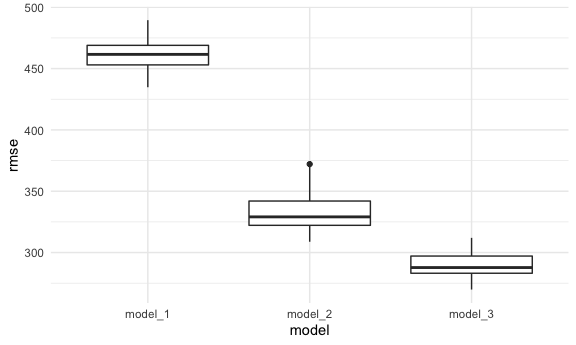
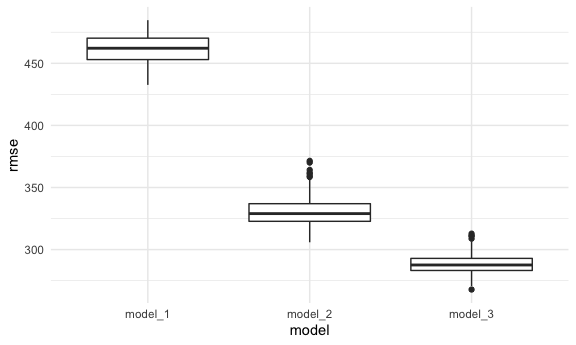
updated description

diff --git a/p8105_hw6_az2587.md b/p8105_hw6_az2587.md
@@ -90,9 +90,16 @@ purrr::map(birthweight, ~sum(is.na(.)))
     ## $wtgain
     ## [1] 0
 
-Fan, Cuifang et al. “Paternal factors to the offspring birth weight: the
-829 birth cohort study.” International journal of clinical and
-experimental medicine vol. 8,7 11370-8. 15 Jul. 2015
+There are no missing data in this dataset.
+
+Based on the two papers related to child’s birthweight, I selected
+family income, gestational age, mother’s pre-pregnancy BMI, previous
+number of low birth weight babies, and number of prior small for
+gestational age babies as regression variables.
+
+**Papers** Fan, Cuifang et al. “Paternal factors to the offspring birth
+weight: the 829 birth cohort study.” International journal of clinical
+and experimental medicine vol. 8,7 11370-8. 15 Jul. 2015
 
 Singh, G et al. “Maternal Factors for Low Birth Weight Babies.” Medical
 journal, Armed Forces India vol. 65,1 (2009): 10-2.
@@ -126,7 +133,7 @@ model_3 = lm(bwt ~ bhead + blength + babysex +
                bhead * blength * babysex, data = birthweight)
 ```
 
-cv to compare
+Use cross validation to compare:
 
 ``` r
 cv_df = crossv_mc(birthweight, 100) %>% 
@@ -154,6 +161,9 @@ cv_df %>%
 ```
 
 <img src="p8105_hw6_az2587_files/figure-gfm/unnamed-chunk-4-1.png" width="90%" />
+
+The third model has the smallest value of RMSE while the model I
+proposed has the largest. (Sadly my model is the least optimal one)
 
 ## Problem 2
 
@@ -204,9 +214,11 @@ boot_strap_results =
   unnest(results)
 ```
 
-R^2
+### r-squared:
 
 ``` r
+r2_CI = quantile(boot_strap_results$adj.r.squared, prob = c(0.025, 0.975))
+
 boot_strap_results %>%
   ggplot(aes(x = adj.r.squared)) +
   geom_density() +
@@ -218,7 +230,12 @@ boot_strap_results %>%
 ```
 
 <img src="p8105_hw6_az2587_files/figure-gfm/unnamed-chunk-6-1.png" width="90%" />
-CI:
+
+The distribution of R-squared approximately follows a normal
+distribution, with a center around 0.91. The 95% confidence interval for
+r-squared distribution is 0.8933721, 0.9274341.
+
+### Confidence Interval:
 
 ``` r
 boot_strap_results_2 = 
@@ -234,7 +251,9 @@ boot_strap_results_2 =
   unnest(cols = c(`(Intercept)`, tmin)) %>% 
   rename(B_0 = "(Intercept)",
          B_1 = tmin) %>% 
-  mutate(log = B_0 * B_1)
+  mutate(log = log(B_0 * B_1))
+
+log_CI = quantile(boot_strap_results_2$log, prob = c(0.025, 0.975))
 
 boot_strap_results_2 %>% 
   ggplot(aes(x = log)) +
@@ -242,3 +261,7 @@ boot_strap_results_2 %>%
 ```
 
 <img src="p8105_hw6_az2587_files/figure-gfm/unnamed-chunk-7-1.png" width="90%" />
+
+The log function plot generally follows a normal distribution, with a
+center around 2.02. The confidence interval of the log function is
+1.9650804, 2.0589998.
